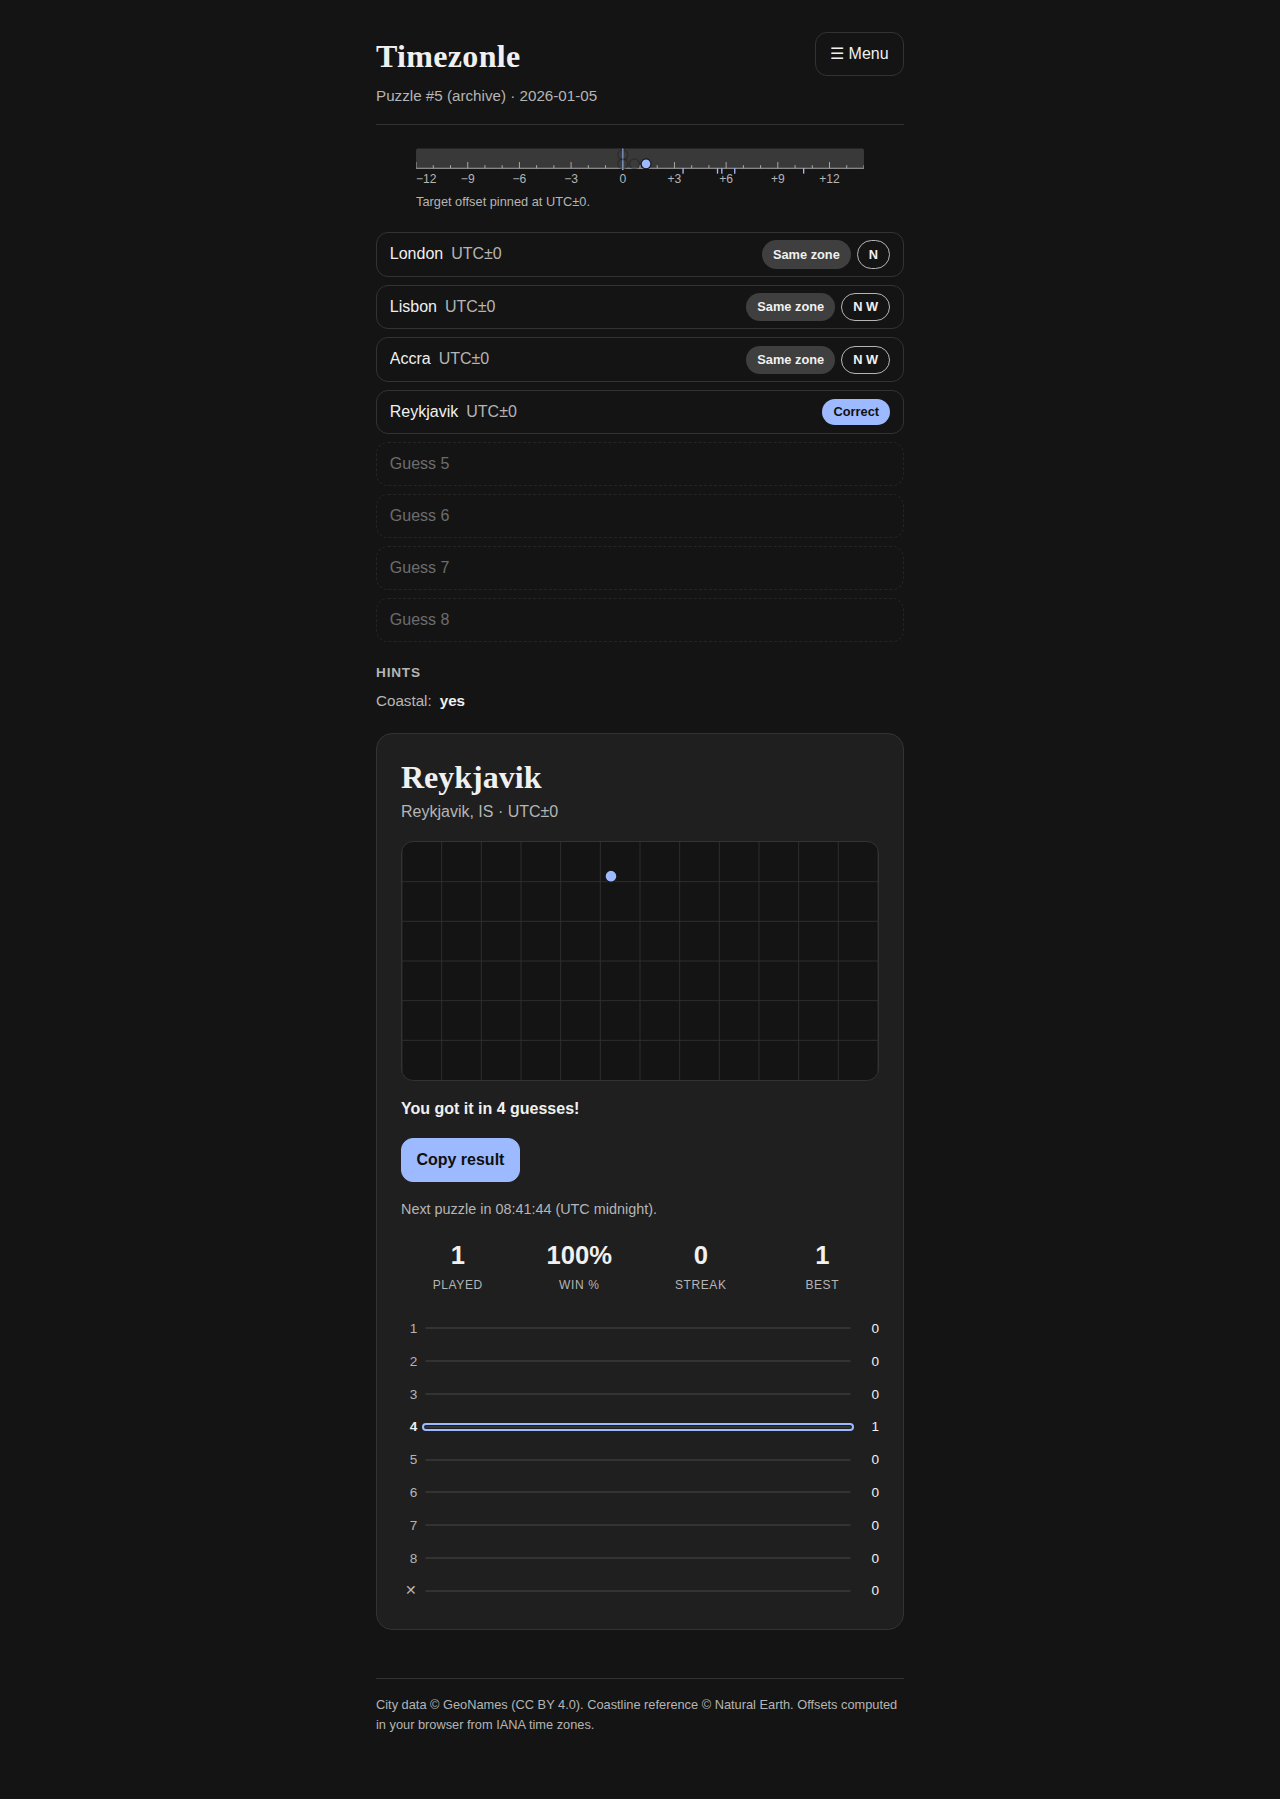
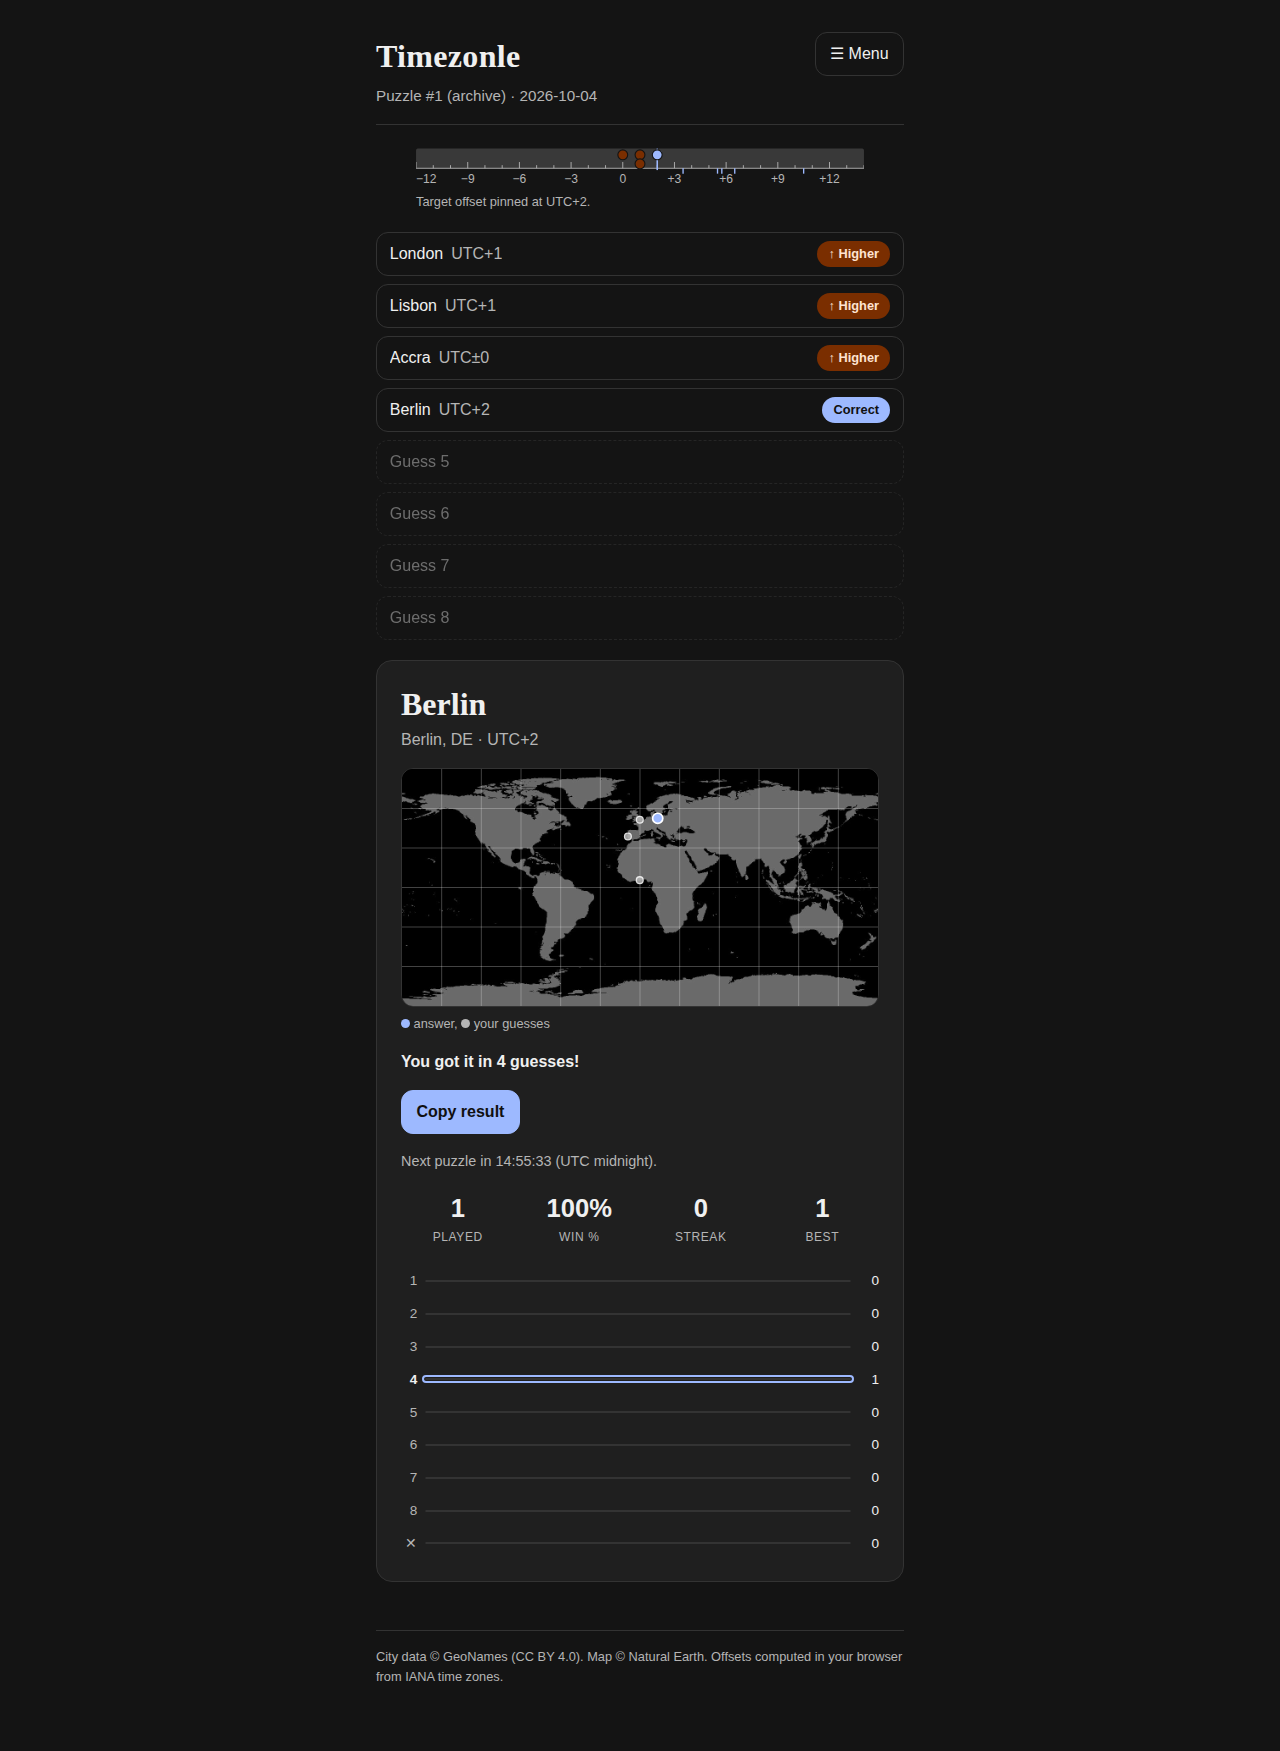
chore: add a map to the win screen

diff --git a/src/ui/world.ts b/src/ui/world.ts
@@ -1,41 +1,89 @@
-// Minimal equirectangular world graticule with a dot at the city's lat/lon.
-// No external data, no map library: meridians/parallels only.
+// End-state map: a static grayscale coastline picture (public/world-map.jpg,
+// rendered from Natural Earth 50m by scripts/render-world-map.py) with a
+// lat/lon-accurate SVG grid overlay. The picture is exactly equirectangular
+// over +-180/+-90 and the container locks a 2:1 aspect ratio, so grid and
+// picture register at every width. Non-interactive: dots only.
 
 const NS = 'http://www.w3.org/2000/svg';
+export const WORLD_W = 560;
+export const WORLD_H = 280;
 
-export function buildGraticule(lat: number, lon: number, cityName: string): SVGSVGElement {
-  const W = 560;
-  const H = 280;
-  const svg = document.createElementNS(NS, 'svg') as unknown as SVGSVGElement;
-  svg.setAttribute('viewBox', `0 0 ${W} ${H}`);
-  svg.setAttribute('class', 'world');
-  svg.setAttribute('role', 'img');
-  svg.setAttribute('aria-label', `World location of ${cityName}`);
+/** lon/lat to fractions of the map box (pure; unit-tested). */
+export function toFraction(lon: number, lat: number): [number, number] {
+  return [(lon + 180) / 360, (90 - lat) / 180];
+}
 
-  const X = (lo: number): number => ((lo + 180) / 360) * W;
-  const Y = (la: number): number => ((90 - la) / 180) * H;
+/** URL of the map picture derived from the data base path (pure; tested). */
+export function mapImageUrl(dataBase: string): string {
+  const root = dataBase.endsWith('data') ? dataBase.slice(0, -4) : `${dataBase}/`;
+  return `${root}world-map.jpg`;
+}
+
+export interface MapDot {
+  lon: number;
+  lat: number;
+  label: string;
+}
+
+export interface WorldModel {
+  answer: MapDot;
+  /** Wrong guesses only; empty on the loss screen. */
+  guesses: MapDot[];
+}
+
+function el(tag: string, attrs: Record<string, string> = {}): SVGElement {
+  const e = document.createElementNS(NS, tag);
+  for (const [k, v] of Object.entries(attrs)) e.setAttribute(k, v);
+  return e as SVGElement;
+}
+
+export function buildMap(model: WorldModel, dataBase: string): HTMLElement {
+  const box = document.createElement('div');
+  box.className = 'worldmap';
+
+  const img = document.createElement('img');
+  img.src = mapImageUrl(dataBase);
+  img.alt = '';
+  img.loading = 'lazy';
+  img.width = 1120;
+  img.height = 560;
+  box.appendChild(img);
+
+  const svg = el('svg', {
+    viewBox: `0 0 ${WORLD_W} ${WORLD_H}`,
+    class: 'world world-overlay',
+    role: 'img',
+    'aria-label':
+      model.guesses.length > 0
+        ? `World map: answer ${model.answer.label}, plus ${model.guesses.length} wrong guesses`
+        : `World map: answer ${model.answer.label}`,
+    preserveAspectRatio: 'none',
+  });
 
   const line = (x1: number, y1: number, x2: number, y2: number): SVGLineElement => {
-    const l = document.createElementNS(NS, 'line') as unknown as SVGLineElement;
-    l.setAttribute('x1', String(x1));
-    l.setAttribute('y1', String(y1));
-    l.setAttribute('x2', String(x2));
-    l.setAttribute('y2', String(y2));
-    l.setAttribute('class', 'world-grat');
+    const l = el('line', {
+      x1: String(x1), y1: String(y1), x2: String(x2), y2: String(y2), class: 'world-grid',
+    }) as unknown as SVGLineElement;
     return l;
   };
+  const X = (lon: number): number => toFraction(lon, 0)[0] * WORLD_W;
+  const Y = (lat: number): number => toFraction(0, lat)[1] * WORLD_H;
+  for (let lon = -150; lon <= 150; lon += 30) svg.appendChild(line(X(lon), 0, X(lon), WORLD_H));
+  for (let lat = -60; lat <= 60; lat += 30) svg.appendChild(line(0, Y(lat), WORLD_W, Y(lat)));
 
-  for (let lo = -180; lo <= 180; lo += 30) svg.appendChild(line(X(lo), 0, X(lo), H));
-  for (let la = -60; la <= 60; la += 30) svg.appendChild(line(0, Y(la), W, Y(la)));
+  const dot = (d: MapDot, cls: string, r: string): SVGCircleElement => {
+    const [fx, fy] = toFraction(d.lon, d.lat);
+    const c = el('circle', {
+      cx: String(fx * WORLD_W), cy: String(fy * WORLD_H), r, class: cls,
+    }) as unknown as SVGCircleElement;
+    const title = document.createElementNS(NS, 'title');
+    title.textContent = d.label;
+    c.appendChild(title);
+    return c as unknown as SVGCircleElement;
+  };
+  for (const g of model.guesses) svg.appendChild(dot(g, 'world-guess', '4'));
+  svg.appendChild(dot(model.answer, 'world-dot', '6'));
 
-  const dot = document.createElementNS(NS, 'circle') as unknown as SVGCircleElement;
-  dot.setAttribute('cx', String(X(lon)));
-  dot.setAttribute('cy', String(Y(lat)));
-  dot.setAttribute('r', '7');
-  dot.setAttribute('class', 'world-dot');
-  const title = document.createElementNS(NS, 'title');
-  title.textContent = cityName;
-  dot.appendChild(title);
-  svg.appendChild(dot);
-  return svg as unknown as SVGSVGElement;
+  box.appendChild(svg);
+  return box;
 }

diff --git a/src/ui/app.ts b/src/ui/app.ts
@@ -28,7 +28,7 @@ import {
 } from '../storage/store.js';
 import { attachAutocomplete } from './autocomplete.js';
 import { renderRuler, rulerBounds, type RulerMarker } from './ruler.js';
-import { buildGraticule } from './world.js';
+import { buildMap, type MapDot } from './world.js';
 
 export interface AppOptions {
   clock?: Clock;
@@ -203,7 +203,7 @@ export async function startApp(root: HTMLElement, opts: AppOptions = {}): Promis
   countdown.setAttribute('aria-live', 'polite');
   const footer = document.createElement('footer');
   footer.textContent =
-    'City data © GeoNames (CC BY 4.0). Coastline reference © Natural Earth. ' +
+    'City data © GeoNames (CC BY 4.0). Map © Natural Earth. ' +
     'Offsets computed in your browser from IANA time zones.';
   const modalRoot = el('div', '');
 
@@ -384,7 +384,11 @@ export async function startApp(root: HTMLElement, opts: AppOptions = {}): Promis
     const finished = game.status !== 'playing';
     form.style.display = finished ? 'none' : '';
     if (finished) {
-      endBox.appendChild(resultCard(target, date, game.status === 'won' ? 'won' : 'lost', game.guesses.length, fbs));
+      const won = game.status === 'won';
+      const wrong: City[] = won
+        ? game.guesses.map((id) => byId.get(id)).filter((c): c is City => !!c && c.id !== target.id)
+        : [];
+      endBox.appendChild(resultCard(target, date, won ? 'won' : 'lost', game.guesses.length, fbs, wrong));
       countdown.hidden = true;
     } else {
       countdown.hidden = false;
@@ -398,6 +402,7 @@ export async function startApp(root: HTMLElement, opts: AppOptions = {}): Promis
     status: 'won' | 'lost',
     guessCount: number,
     fbs: Feedback[],
+    wrong: City[],
   ): HTMLElement {
     const card = el('div', 'result-card');
     const h = document.createElement('h2');
@@ -410,7 +415,28 @@ export async function startApp(root: HTMLElement, opts: AppOptions = {}): Promis
       status === 'won'
         ? `You got it in ${guessCount} ${guessCount === 1 ? 'guess' : 'guesses'}!`
         : `Out of guesses — the answer was ${target.name}.`;
-    card.append(h, sub2, buildGraticule(target.lat, target.lon, target.name), outcome);
+    card.append(h, sub2);
+    const dots: MapDot[] = wrong.map((c) => ({ lon: c.lon, lat: c.lat, label: c.name }));
+    card.appendChild(
+      buildMap(
+        {
+          answer: { lon: target.lon, lat: target.lat, label: target.name },
+          guesses: dots,
+        },
+        dataBase,
+      ),
+    );
+    const legend = el('div', 'map-legend');
+    const aDot = document.createElement('span');
+    aDot.className = 'lg-dot lg-answer';
+    legend.append(aDot, ' answer');
+    if (dots.length > 0) {
+      const gDot = document.createElement('span');
+      gDot.className = 'lg-dot lg-guess';
+      legend.append(', ', gDot, ' your guesses');
+    }
+    card.appendChild(legend);
+    card.appendChild(outcome);
 
     const actions = el('div', 'result-actions');
     const copy = document.createElement('button');

diff --git a/src/style.css b/src/style.css
@@ -346,9 +346,45 @@ ol.guesses li.guess.enter { animation: row-in 200ms ease-out; }
 }
 .result-sub { color: var(--muted); margin: 0.25rem 0 1rem; font-variant-numeric: tabular-nums; }
 .result-outcome { font-weight: 600; margin: 0 0 1rem; }
-.result-card svg.world { display: block; width: 100%; height: auto; margin-bottom: 1rem; background: var(--bg); border: 1px solid var(--line); border-radius: var(--radius); }
-.result-card .world-grat { stroke: var(--line); stroke-width: 1; fill: none; }
-.result-card .world-dot { fill: var(--accent); stroke: var(--bg); stroke-width: 1.5; }
+.worldmap {
+  position: relative;
+  aspect-ratio: 2 / 1;
+  border: 1px solid var(--line);
+  border-radius: var(--radius);
+  overflow: hidden;
+  margin-bottom: 0.4rem;
+  background: #ffffff;
+}
+.worldmap img {
+  position: absolute;
+  inset: 0;
+  width: 100%;
+  height: 100%;
+  object-fit: fill;
+  display: block;
+}
+.worldmap svg.world-overlay {
+  position: absolute;
+  inset: 0;
+  width: 100%;
+  height: 100%;
+  display: block;
+  border: none;
+  border-radius: 0;
+  margin: 0;
+  background: transparent;
+}
+.result-card .world-grid { stroke: var(--ink); stroke-width: 0.8; opacity: 0.35; vector-effect: non-scaling-stroke; }
+.result-card .world-dot { fill: var(--accent); stroke: #ffffff; stroke-width: 2; }
+.result-card .world-guess { fill: var(--muted); stroke: #ffffff; stroke-width: 1.5; opacity: 0.85; }
+.map-legend { color: var(--muted); font-size: 0.8rem; margin-bottom: 1rem; }
+.lg-dot { display: inline-block; width: 0.7em; height: 0.7em; border-radius: 50%; }
+.lg-answer { background: var(--accent); }
+.lg-guess { background: var(--muted); }
+@media (prefers-color-scheme: dark) {
+  .worldmap img { filter: invert(1) brightness(0.92); }
+  .worldmap { background: #000000; }
+}
 .result-actions { display: flex; gap: 0.5rem; flex-wrap: wrap; align-items: center; }
 .copied-note { color: var(--muted); font-size: 0.9rem; }
 .result-countdown { color: var(--muted); font-size: 0.9rem; margin: 1rem 0 0; font-variant-numeric: tabular-nums; }

diff --git a/src/ui/world.test.ts b/src/ui/world.test.ts
@@ -1,0 +1,22 @@
+import { describe, expect, it } from 'vitest';
+import { toFraction, mapImageUrl } from './world.js';
+
+describe('map overlay geometry', () => {
+  it('maps lon/lat corners and center to box fractions', () => {
+    expect(toFraction(-180, 90)).toEqual([0, 0]);
+    expect(toFraction(180, -90)).toEqual([1, 1]);
+    expect(toFraction(0, 0)).toEqual([0.5, 0.5]);
+  });
+
+  it('places a known city correctly (Berlin 52.52N, 13.4E)', () => {
+    const [fx, fy] = toFraction(13.4, 52.52);
+    expect(fx).toBeCloseTo(0.537, 3);
+    expect(fy).toBeCloseTo(0.208, 3);
+  });
+
+  it('derives the picture URL from the data base', () => {
+    expect(mapImageUrl('data')).toBe('world-map.jpg');
+    expect(mapImageUrl('./data')).toBe('./world-map.jpg');
+    expect(mapImageUrl('/app/data')).toBe('/app/world-map.jpg');
+  });
+});

diff --git a/scripts/render-world-map.py b/scripts/render-world-map.py
@@ -1,0 +1,71 @@
+"""Render public/world-map.jpg from Natural Earth 50m land polygons.
+
+Grayscale, coastlines-only style: mid-gray filled land on white.
+Equirectangular, exact +-180/+-90 extent, so the SVG grid overlay in
+src/ui/world.ts registers pixel-perfectly by construction.
+
+Usage: python3 scripts/render-world-map.py
+Input: scripts/raw/ne_50m_land.geojson (git-ignored; see scripts/raw/README.md)
+Output: public/world-map.jpg (committed)
+"""
+import json
+import os
+import sys
+
+from PIL import Image, ImageDraw
+
+W, H = 1120, 560
+LAND_FILL = (140, 140, 140)
+OCEAN_FILL = (255, 255, 255)
+
+ROOT = os.path.dirname(os.path.dirname(os.path.abspath(__file__)))
+RAW = os.path.join(ROOT, "scripts", "raw", "ne_50m_land.geojson")
+OUT = os.path.join(ROOT, "public", "world-map.jpg")
+
+
+def project(lon, lat):
+    x = (lon + 180.0) / 360.0 * W
+    y = (90.0 - lat) / 180.0 * H
+    return (x, y)
+
+
+def rings_of(geom):
+    if geom["type"] == "Polygon":
+        return geom["coordinates"]
+    if geom["type"] == "MultiPolygon":
+        return [ring for poly in geom["coordinates"] for ring in poly]
+    return []
+
+
+def main():
+    if not os.path.exists(RAW):
+        sys.exit(f"missing {RAW} (see scripts/raw/README.md)")
+    with open(RAW, encoding="utf-8") as f:
+        land = json.load(f)
+    img = Image.new("RGB", (W, H), OCEAN_FILL)
+    draw = ImageDraw.Draw(img)
+    count = 0
+    for feature in land["features"]:
+        for ring in rings_of(feature["geometry"]):
+            pts = [project(x, y) for x, y in ring]
+            # Split segments jumping the antimeridian to avoid streaks.
+            run = [pts[0]]
+            runs = []
+            for p in pts[1:]:
+                if abs(p[0] - run[-1][0]) > W / 2:
+                    runs.append(run)
+                    run = [p]
+                else:
+                    run.append(p)
+            runs.append(run)
+            for r in runs:
+                if len(r) >= 3:
+                    draw.polygon(r, fill=LAND_FILL)
+                    count += 1
+    img.save(OUT, "JPEG", quality=72, optimize=True)
+    size_kb = os.path.getsize(OUT) / 1024
+    print(f"wrote {OUT} ({size_kb:.0f} KB, {count} rings)")
+
+
+if __name__ == "__main__":
+    main()

diff --git a/README.md b/README.md
@@ -91,11 +91,16 @@ npm run data:validate  # CI gate: exits non-zero on any inconsistency
   Prints a per-offset histogram and warns if one offset holds > 15%.
 - **Schedule**: seeded shuffle (seed `20260101`) stored as salted hashes.
   Append-only — regeneration keeps existing entries and appends new ones.
+- **Map picture** (`python3 scripts/render-world-map.py` → `public/world-map.jpg`):
+  grayscale coastlines-only render of Natural Earth 50m land, exact
+  ±180/±90 equirectangular so the SVG grid overlay registers by
+  construction. Needs `scripts/raw/ne_50m_land.geojson` (git-ignored).
 - **Validate**: targets exist, every tz resolves in `Intl`, no duplicate ids
   or schedule entries.
 
 **Attribution:** city data © GeoNames, CC BY 4.0
-(https://creativecommons.org/licenses/by/4.0/) — also credited in the app footer.
+(https://creativecommons.org/licenses/by/4.0/); map land data © Natural Earth
+— both credited in the app footer.
 
 ## Deploy
 

diff --git a/scripts/raw/README.md b/scripts/raw/README.md
@@ -11,3 +11,11 @@
 # Attribution: GeoNames data is licensed CC BY 4.0
 # (https://creativecommons.org/licenses/by/4.0/). A credit footer is
 # included in the app UI.
+#
+# Map picture (for scripts/render-world-map.py, when network is blocked):
+# 1. Land: ne_50m_land.geojson from
+#    https://www.naturalearthdata.com/downloads/50m-physical-vectors/50m-land/
+# 2. Place it here as scripts/raw/ne_50m_land.geojson, then run:
+#    python3 scripts/render-world-map.py
+#
+# Raw downloads are git-ignored; only scripts/raw/README.md is committed.
